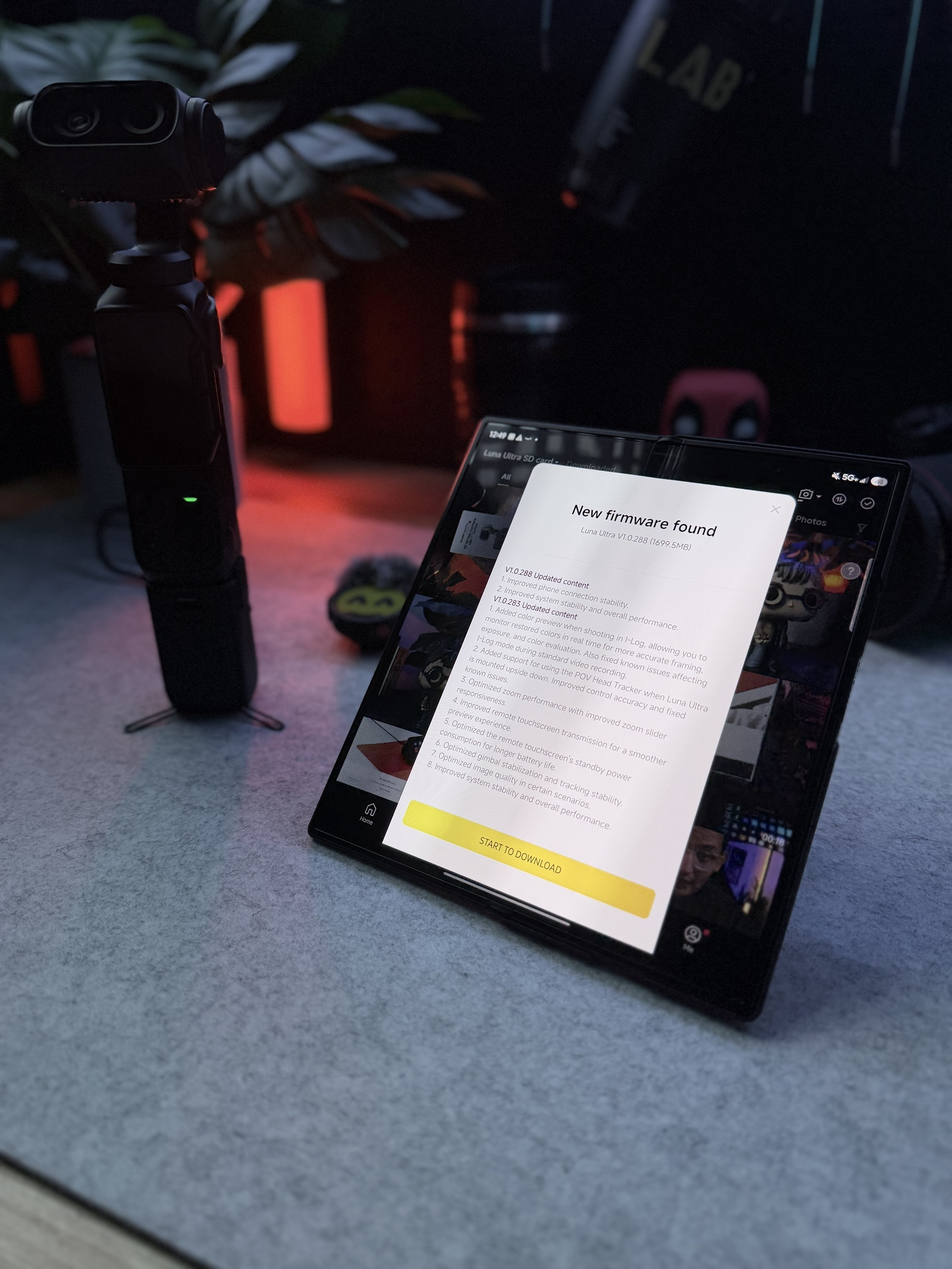
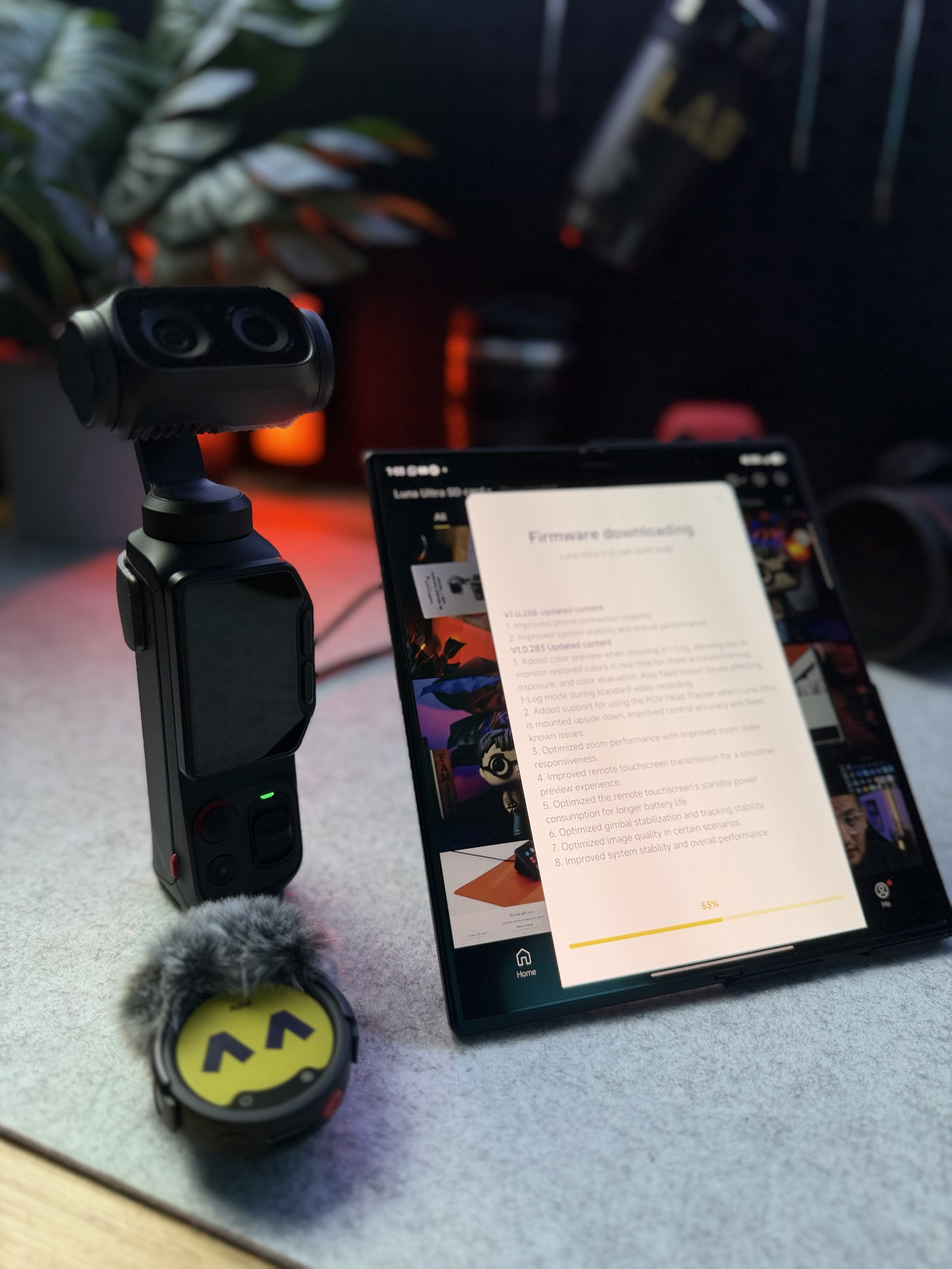
Luna Ultra carousel: open on the 'Firmware downloading' shot, real photos limited to the session set
Slide 1 now opens on Adel's sharp-camera shot with the phone's 'Firmware
downloading' sheet soft behind it and reveals into the install sheet.
The media folder carries only the photos supplied in this session.

Claude-Session: https://claude.ai/code/session_01Ug7cAFbE7MsGDXUdYZwvuH

diff --git a/content/motion-carousel/2026-09-insta360-luna-ultra-update/remotion-carousel/src/Carousel.tsx b/content/motion-carousel/2026-09-insta360-luna-ultra-update/remotion-carousel/src/Carousel.tsx
@@ -96,10 +96,10 @@ const Hook: React.FC<{s: any}> = ({s}) => {
   const pillB = ip(f, T + 34, T + 48);
   return <>
     <Card>
-      <Photo src={s.media} iw={1932} ih={2576} crop={{x: 0, y: 60, w: 1760, h: 1500}} zoom={zoomA} anchor={{x: 880, y: 810}}/>
+      <Photo src={s.media} iw={1932} ih={2576} crop={{x: 0, y: 486, w: 1932, h: 1648}} zoom={zoomA} anchor={{x: 485, y: 1370}}/>
       <Grad strength={0.5}/>
-      <div style={{position: 'absolute', right: 32, top: 32, opacity: pillA}}><Pill tone="glass" size={20} style={{fontFamily: B.font_mono, fontWeight: 500, padding: '6px 12px'}}><span style={{width: 10, height: 10, borderRadius: 5, background: B.mint, boxShadow: `0 0 12px ${B.mint}`}}/>NEW FIRMWARE FOUND</Pill></div>
-      <div style={{position: 'absolute', inset: 0, clipPath: `circle(${r}px at 154px 359px)`}}>
+      <div style={{position: 'absolute', right: 32, top: 32, opacity: pillA}}><Pill tone="glass" size={20} style={{fontFamily: B.font_mono, fontWeight: 500, padding: '6px 12px'}}><span style={{width: 10, height: 10, borderRadius: 5, background: B.mint, boxShadow: `0 0 12px ${B.mint}`}}/>FIRMWARE DOWNLOADING</Pill></div>
+      <div style={{position: 'absolute', inset: 0, clipPath: `circle(${r}px at 235px 430px)`}}>
         <Photo src={s.media_b} iw={1932} ih={2576} crop={{x: 60, y: 780, w: 1500, h: 1300}} zoom={zoomB}/>
         <Grad strength={0.45}/>
         <div style={{position: 'absolute', left: 32, bottom: 32, opacity: pillB, transform: `translateY(${(1 - pillB) * 10}px)`}}>

diff --git a/docs/brand-os/motion/2026-09-21-insta360-luna-ultra-update.md b/docs/brand-os/motion/2026-09-21-insta360-luna-ultra-update.md
@@ -20,7 +20,7 @@
 ## Slides
 | # | Scene | Visual | Copy |
 |---|---|---|---|
-| 01 | hook | Adel's real Luna Ultra beside the phone showing "New firmware found" → circular reveal into the camera screen "Updating firmware" beside the phone's "Install new firmware" sheet | Insta360 Luna Ultra · وصلها Update جديد 👀 · ودي أهم الحاجات الجديدة في التحديث |
+| 01 | hook | Adel's real Luna Ultra in front of the phone showing "Firmware downloading" → circular reveal into the camera screen "Updating firmware" beside the phone's "Install new firmware" sheet | Insta360 Luna Ultra · وصلها Update جديد 👀 · ودي أهم الحاجات الجديدة في التحديث |
 | 02 | zoom | official 1×/15× split; pan from 1× to 15× while a mono counter ticks 1×→15× | 15× HighRes Zoom · تقريب أقوى لحد 15× — من ضمن الحاجات الجديدة في التحديث |
 | 03 | stage | Stage Mode selector with pulsing ring → circular mask reveal of the AI stage shot | Stage Mode جديد 🎤 / متظبط للحفلات والعروض → AI-Enhanced Stage Footage / عشان يلقط اللحظات أوضح |
 | 04 | tracking | official Active Zoom Tracking shot; glow locks onto the official green box, push-in while a mono counter ticks 1×→6× | Active Zoom Tracking · يمسك الهدف ويتابعه بسهولة |
@@ -32,4 +32,4 @@
 - Feature names in English; Arabic explanation first; Western digits.
 
 ## Real-camera anchors
-Slides 1 and 6 use Adel's own photos of the Luna Ultra during the firmware install (wide "New firmware found" shot, the install sheet mid-update, camera close-up), so the series opens and closes on the real unit.
+Slides 1 and 6 use Adel's own photos of the Luna Ultra during the firmware install (wide "Firmware downloading" shot, the install sheet mid-update, camera close-up), so the series opens and closes on the real unit.

diff --git a/content/motion-carousel/2026-09-insta360-luna-ultra-update/README.md b/content/motion-carousel/2026-09-insta360-luna-ultra-update/README.md
@@ -11,7 +11,7 @@ Six independent 9:16 clips (1080 × 1920, 30 fps, 6–7 s each) plus a stitched 
 - `exports/slides/01.mp4 … 06.mp4` — the deliverables. `exports/carousel-preview.mp4` — review only.
 
 ## Real-camera media (Adel's own shots)
-- `media/real-01-camera.jpg` — wide: Luna Ultra beside the phone showing "New firmware found" (slide 1 opening, the discovery moment).
+- `media/real-01-camera.jpg` — wide: Luna Ultra sharp in front, the phone soft behind it showing "Firmware downloading" (slide 1 opening).
 - `media/real-01b-installing.jpg` — the camera screen "Updating firmware 14%" beside the phone's "Install new firmware" sheet at 65% (slide 1 reveal).
 - `media/real-06-camera.jpg` — close-up of the camera with the firmware notes on the phone (slide 6 closing).
 Swap any of them by replacing the file; adjust the `crop` values in `Hook` / `AudioCta` if the framing changes.
